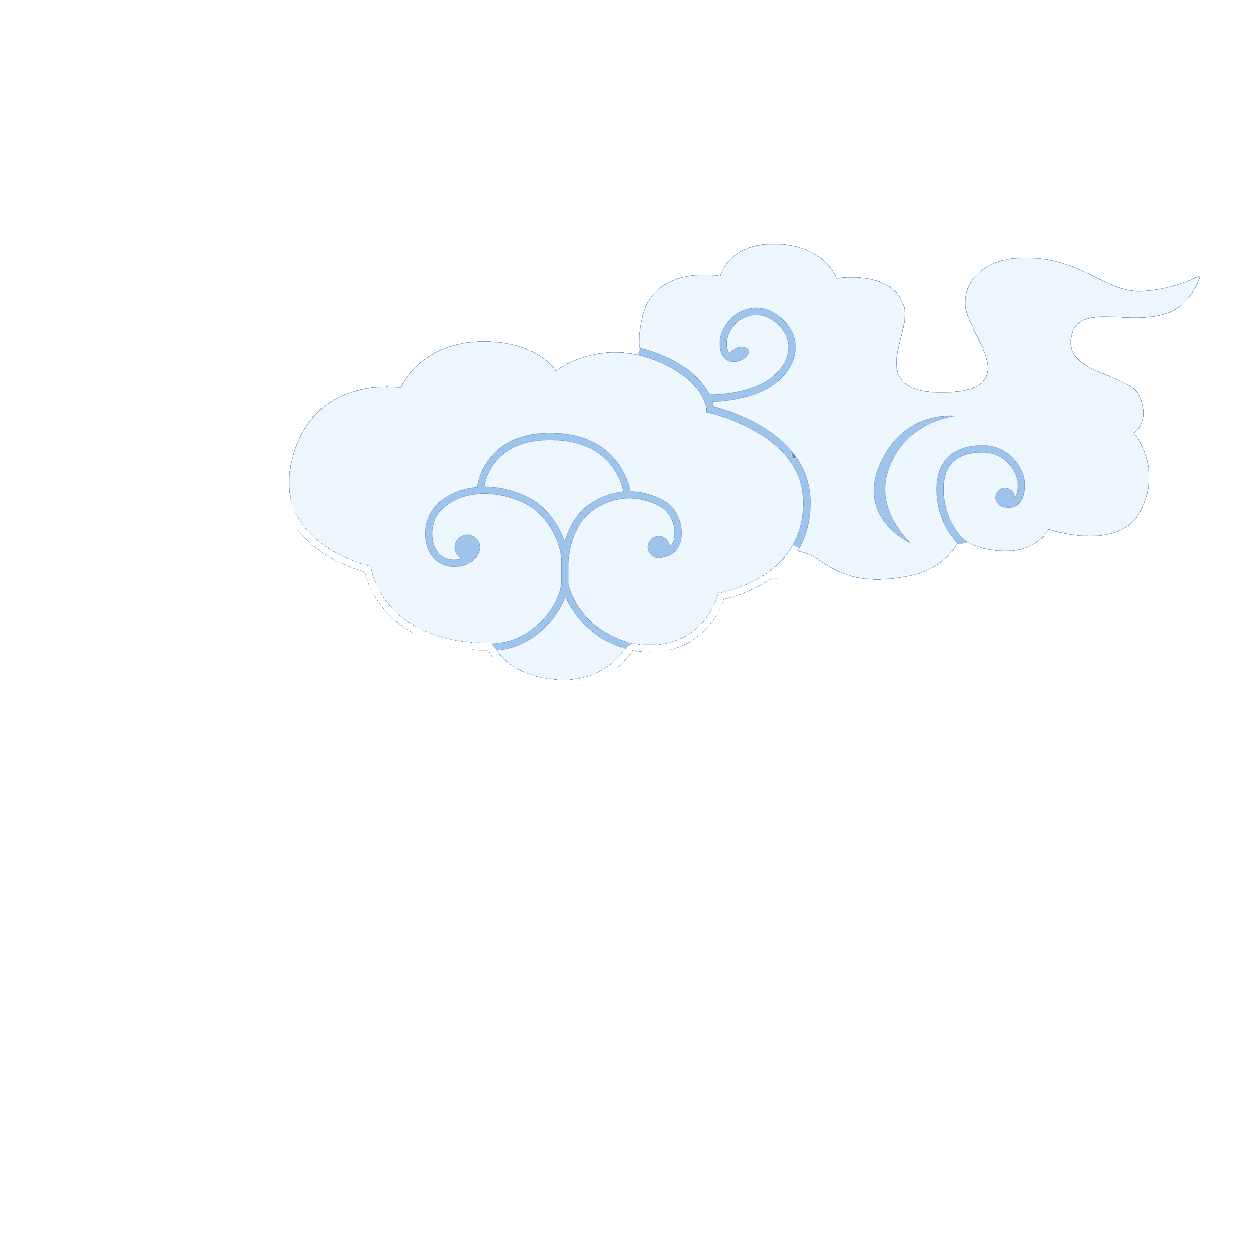
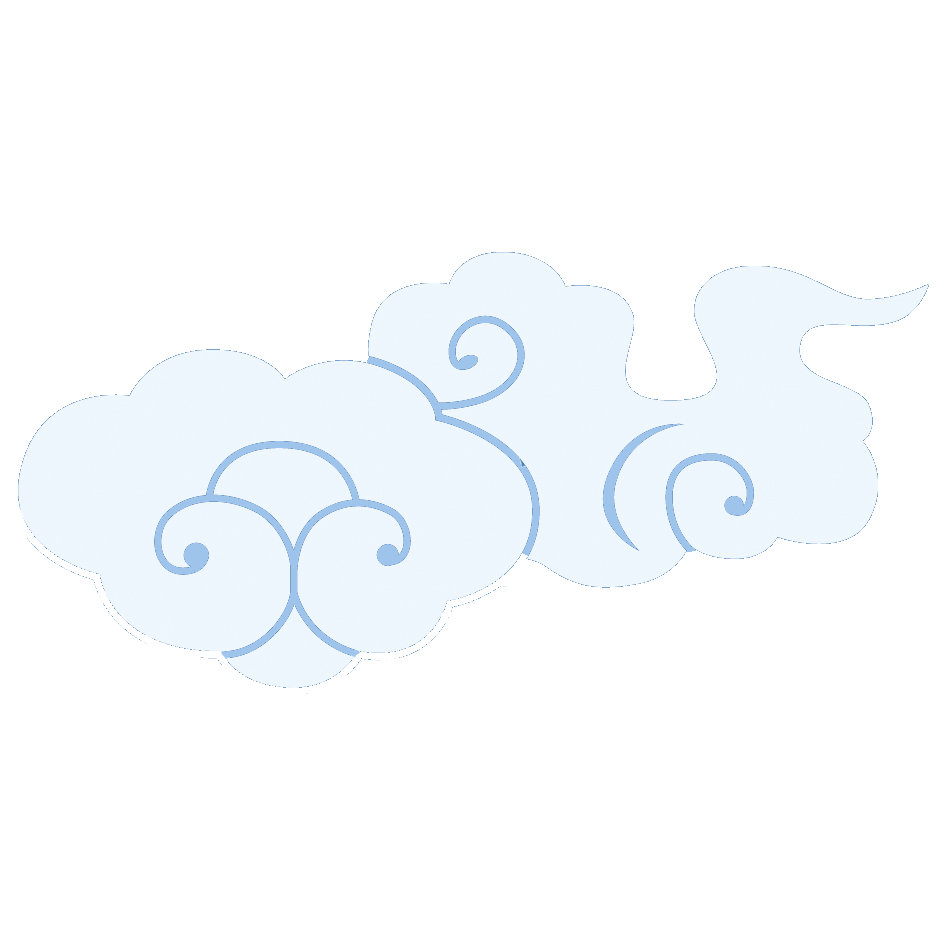
Added little animations to the title buttons.

diff --git a/Assets/Scripts/UI/WiggleHandler.cs b/Assets/Scripts/UI/WiggleHandler.cs
@@ -1,0 +1,24 @@
+using System.Collections;
+using System.Collections.Generic;
+using UnityEngine;
+
+public class WiggleHandler : MonoBehaviour
+{
+    [SerializeField] private float mWiggleStrength = 1;
+    [SerializeField] private float mWiggleSpeed = 1;
+    private const float BASE_SPEED = 1f;
+    private float mStartingAngle = 0;
+
+    // Start is called before the first frame update
+    void Start()
+    {
+        mStartingAngle = transform.eulerAngles.z;
+    }
+
+    // Update is called once per frame
+    void Update()
+    {
+        float newAngle = mStartingAngle + Mathf.Sin(Time.time * BASE_SPEED * mWiggleSpeed) * mWiggleStrength;
+        transform.eulerAngles = new Vector3(transform.eulerAngles.x, transform.eulerAngles.y, newAngle);
+    }
+}
